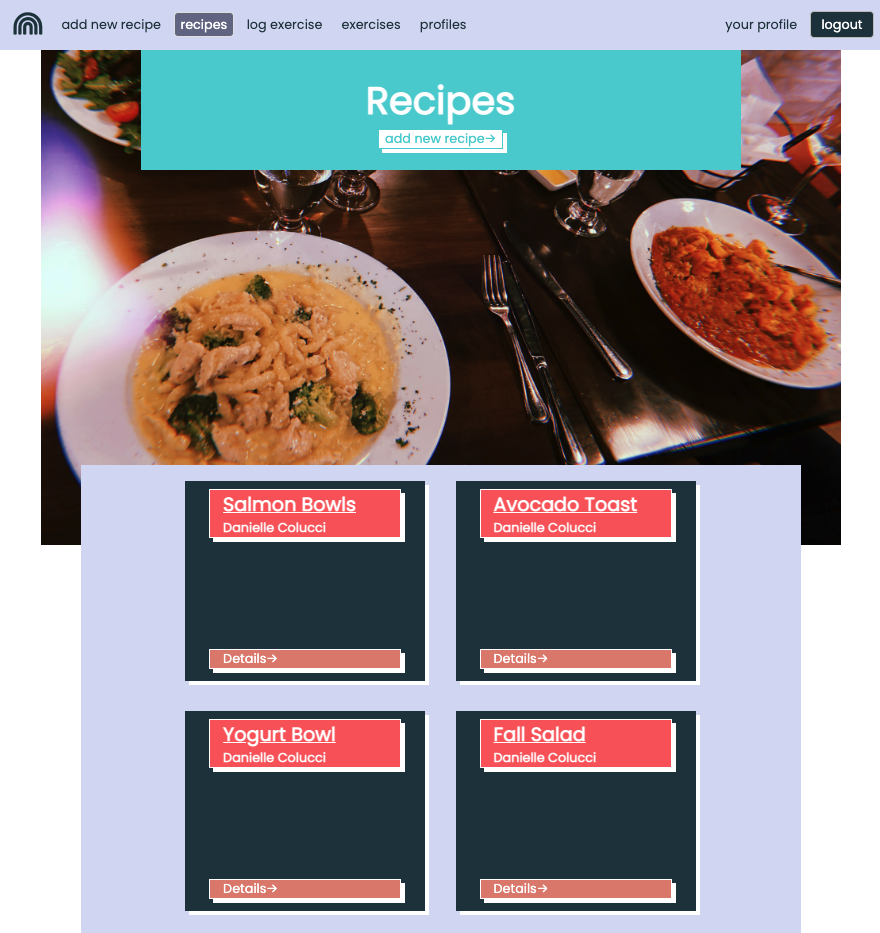
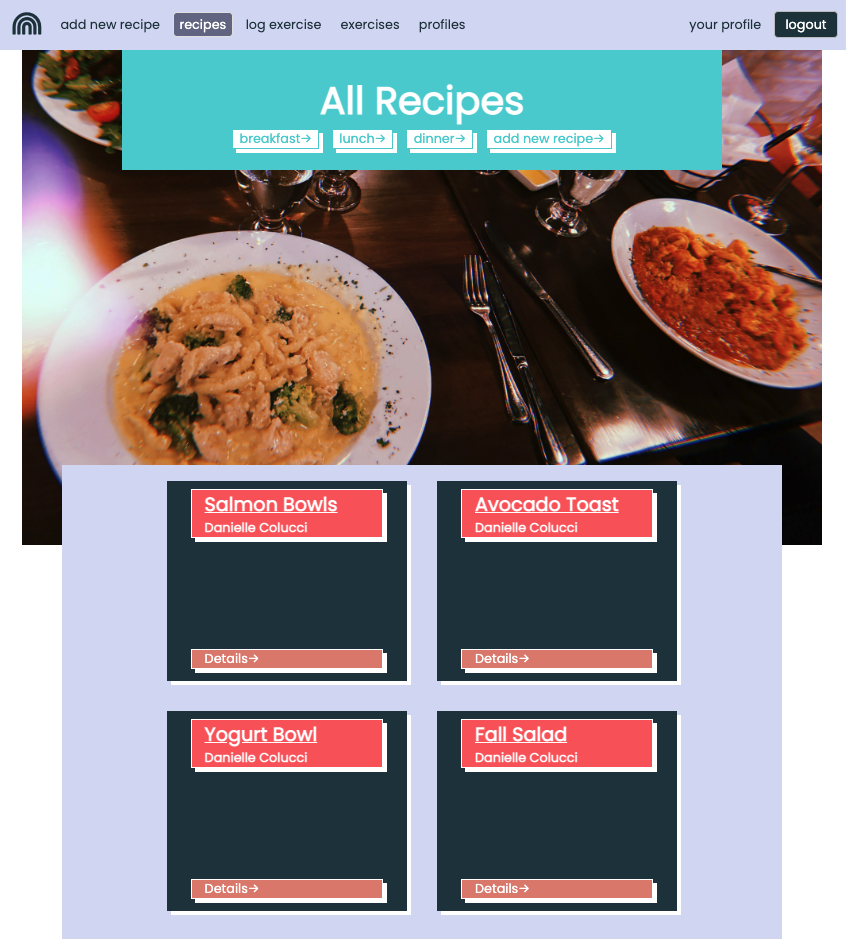
update screenshots in README and update headers on home page and recipes index view

Changed region(s): [[0.0, 0.0, 1.0, 1.0]]

diff --git a/README.md b/README.md
@@ -1,6 +1,6 @@
 # Healthy Habits
 
-<img src="./public/assets/home-page.png" alt="Home Page with a welcome message and three pictures of meals" width="219"> . <img src="./public/assets/recipes-page.png" alt="Recipes page displaying all recipes to the user" width="210"> . <img src="./public/assets/exercise-page.png" alt="Public exercises page displaying to the user exercise logs that other users have made public" width="200">  
+<img src="./public/assets/home-page.png" alt="Home Page with a welcome message and three pictures of meals" width="219"> . <img src="./public/assets/recipes-page.png" alt="Recipes page displaying all recipes to the user" width="201"> . <img src="./public/assets/exercise-page.png" alt="Public exercises page displaying to the user exercise logs that other users have made public" width="200">  
 
 
 Healthy Habits is a site that was designed with the intention of incouraging the development of habits to encourage wellness. Wellness is as much a state of mind as it is a physical goal, and developing habits is key to maintaining a healthy lifestyle. Health also depends not only on physical exercise, but also an adequate and nutritious diet. It can often feel exhausting, daunting, and isolating trying to incorporate healthy habits into our routines, so this the app serves as a place for both users and guests to explore recipes and exercises to gain inspiration, insight, and community on the journey to creating healthy routines or even just thinking of what to make for dinner or what to do at the gym. Best functionality of the app is experienced when users sign in using a Google account, as users are required to be logged in to create recipes, log exercise, and view other users' profile pages. Owners of recipes and exercise logs have the ability to edit and delete, while other users may only view details of both.  
